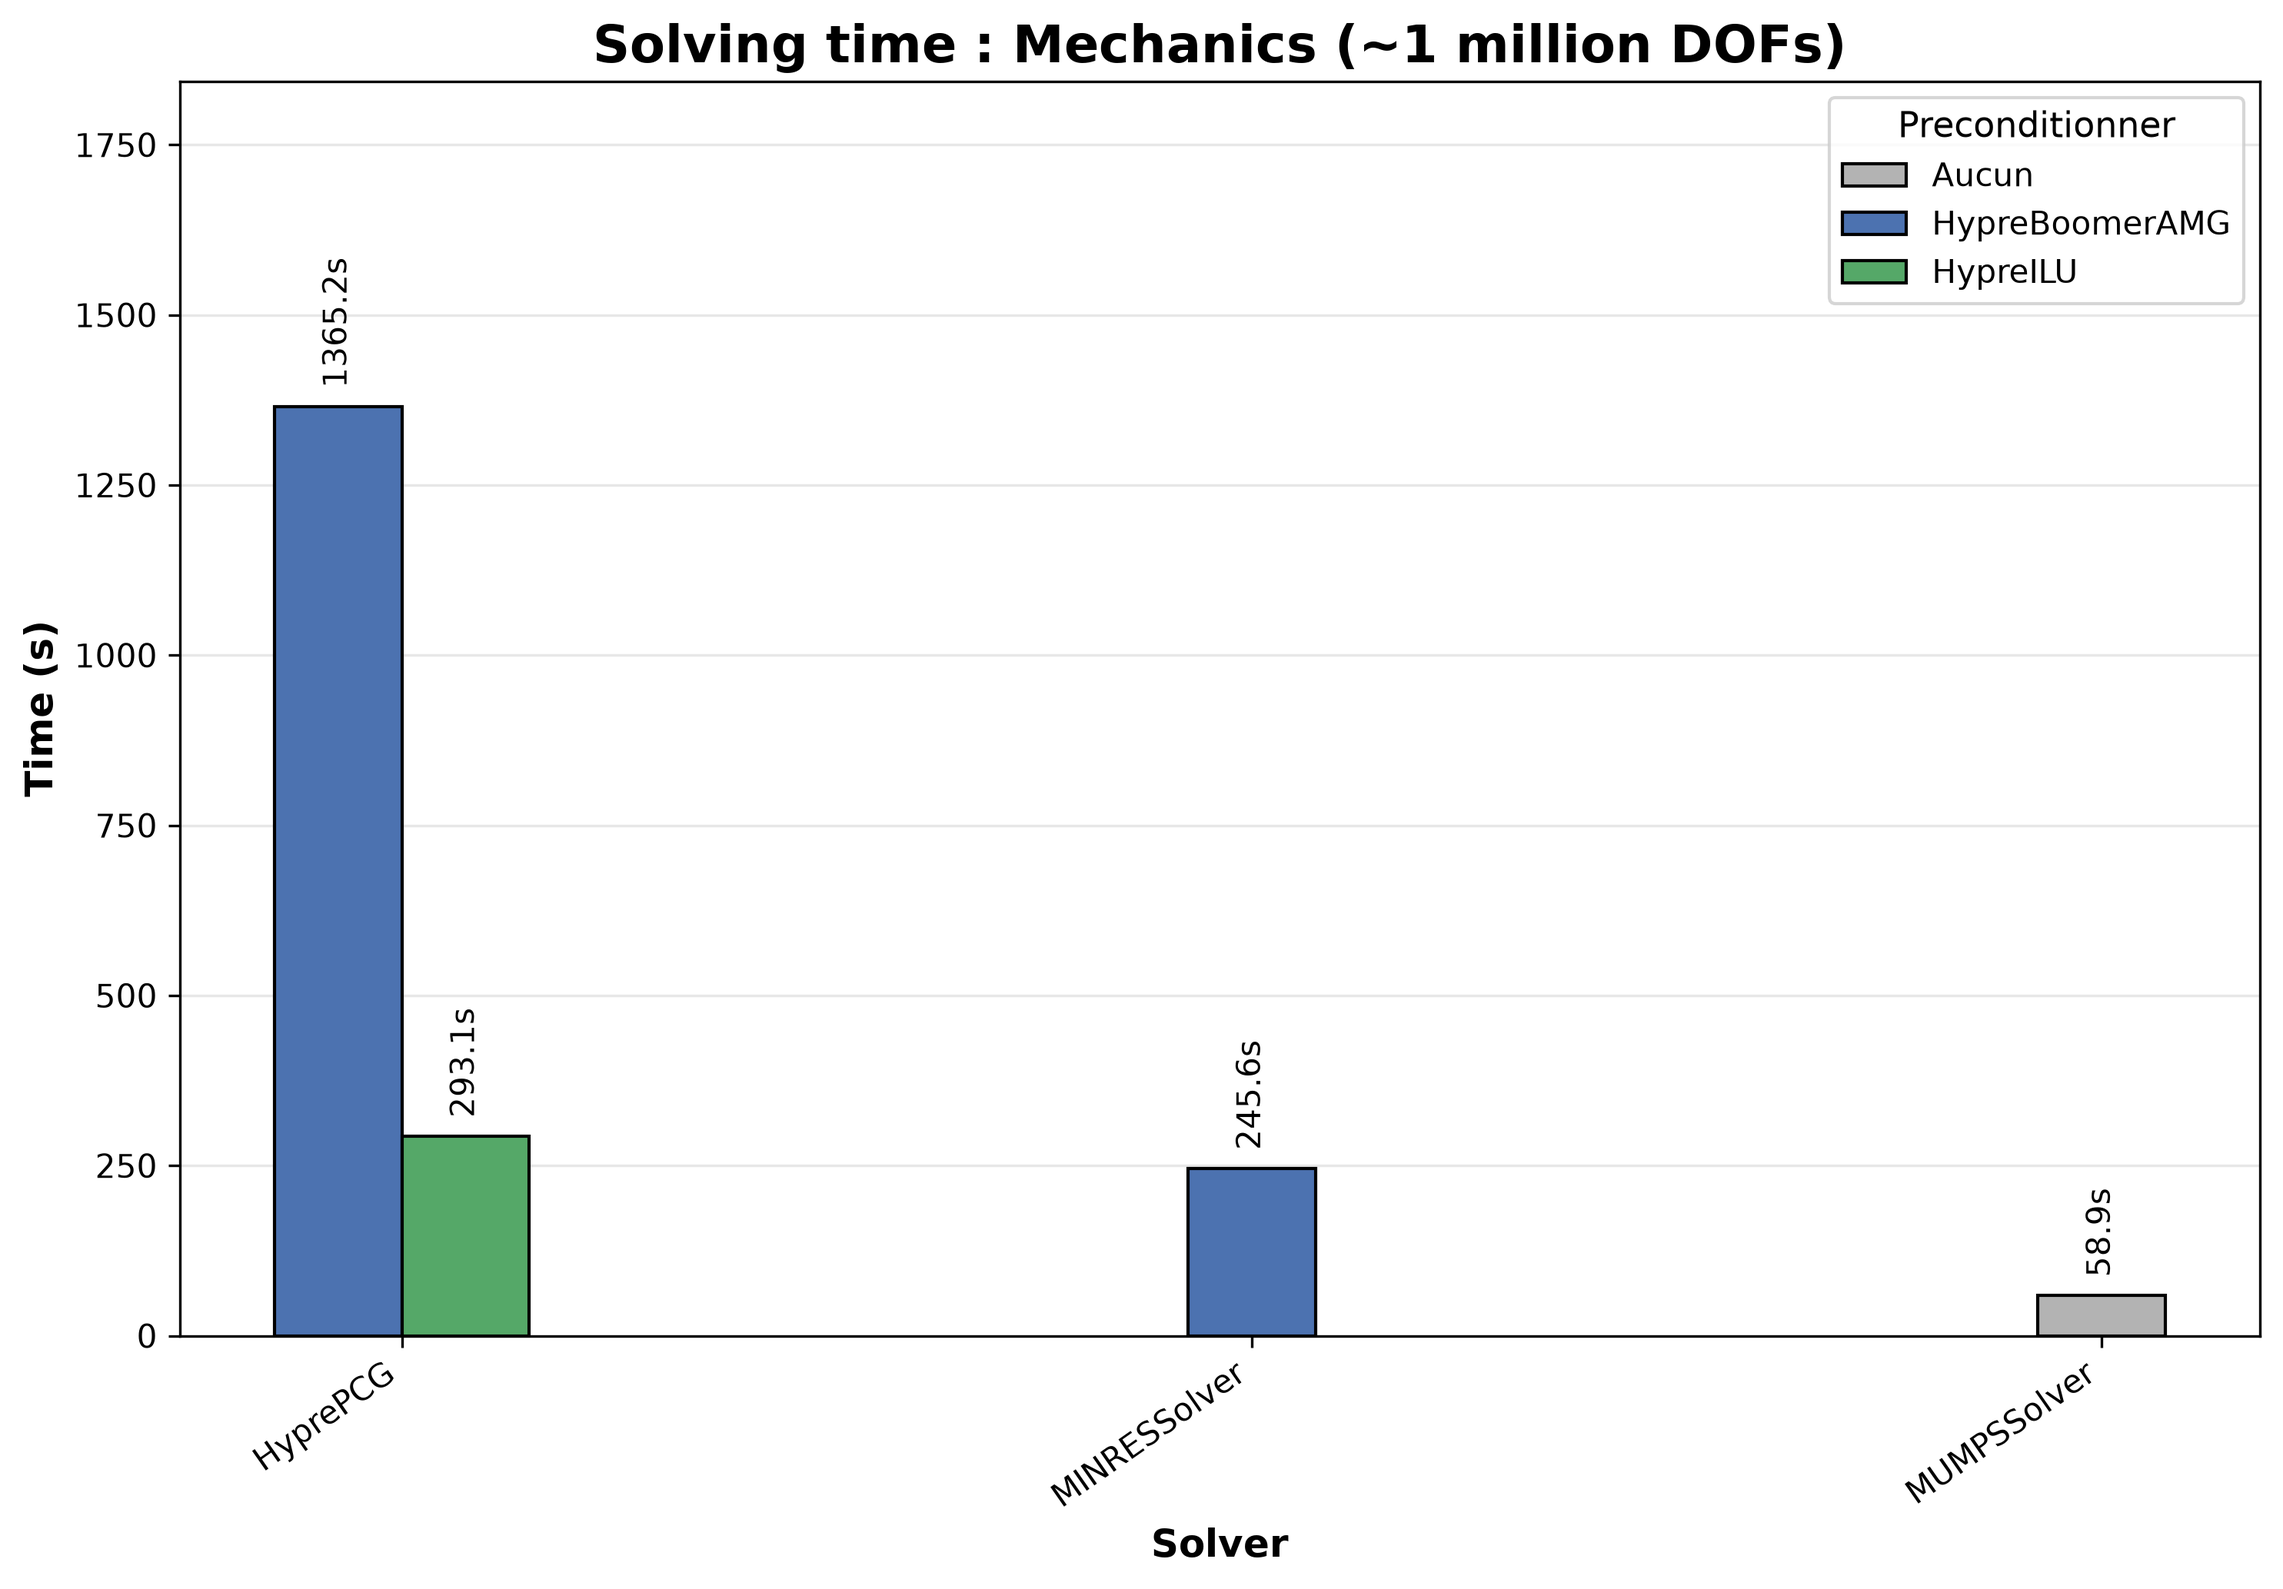
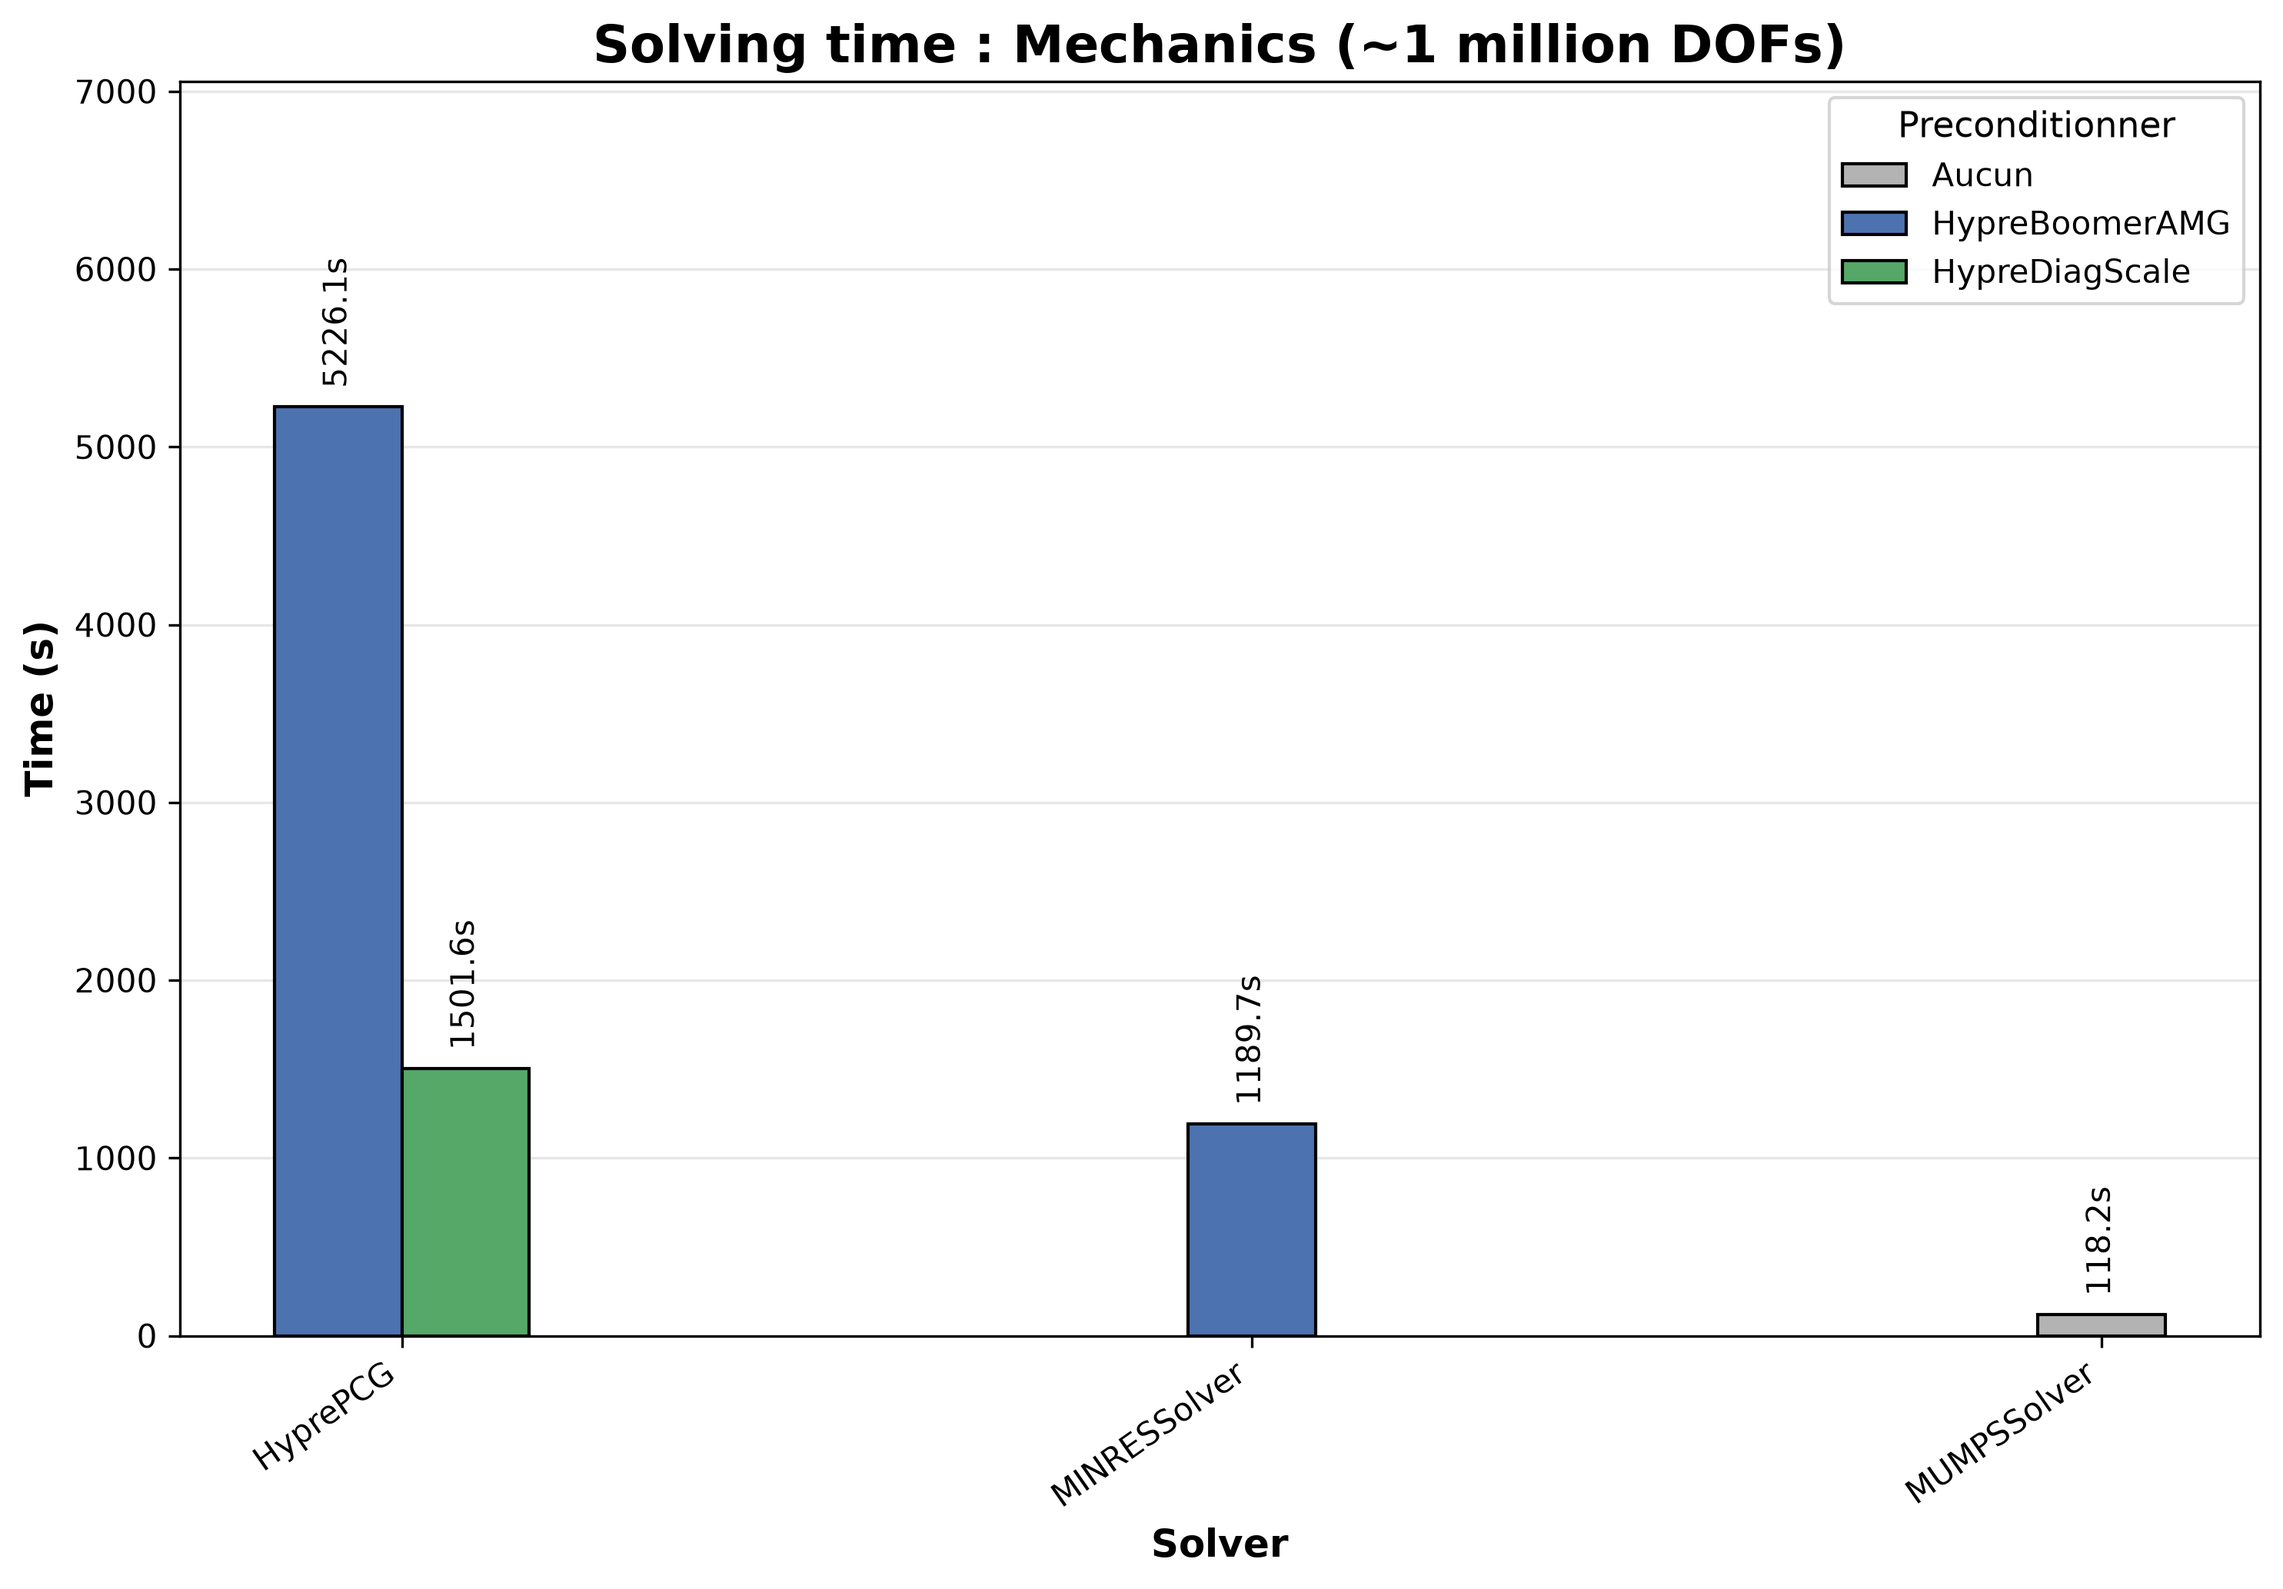
First draft.

diff --git a/ex8/PostProcessing/SolverPrecondtionner/Plots_SvPc_mech.py b/ex8/PostProcessing/SolverPrecondtionner/Plots_SvPc_mech.py
@@ -5,7 +5,7 @@ import matplotlib.pyplot as plt
 import numpy as np
 from matplotlib.patches import Patch
 
-df = pd.read_csv("aggregation_SvPc_mech.csv")
+df = pd.read_csv("aggregation_SvPc_mech_5e4.csv")
 
 df["preconditioner"] = df["preconditioner"].fillna("Aucun")
 
@@ -58,9 +58,9 @@ if not df_meca.empty:
     ax.legend(handles=legend_elements, title="Preconditionner", fontsize=10, title_fontsize=11, loc="upper right")
     
     plt.tight_layout()
-    plt.savefig("Profiling_SvPc_Mechanics.png", dpi=300, bbox_inches="tight")
+    plt.savefig("Profiling_SvPc_Mechanics_5e4.png", dpi=300, bbox_inches="tight")
     plt.close()
     
-    print("Graph has been generated : Profiling_SvPc_Mechanics.png")
+    print("Graph has been generated : Profiling_SvPc_Mechanics_5e4.png")
 else:
     print("No valid 'Mechanics' data was found in the CSV.")
